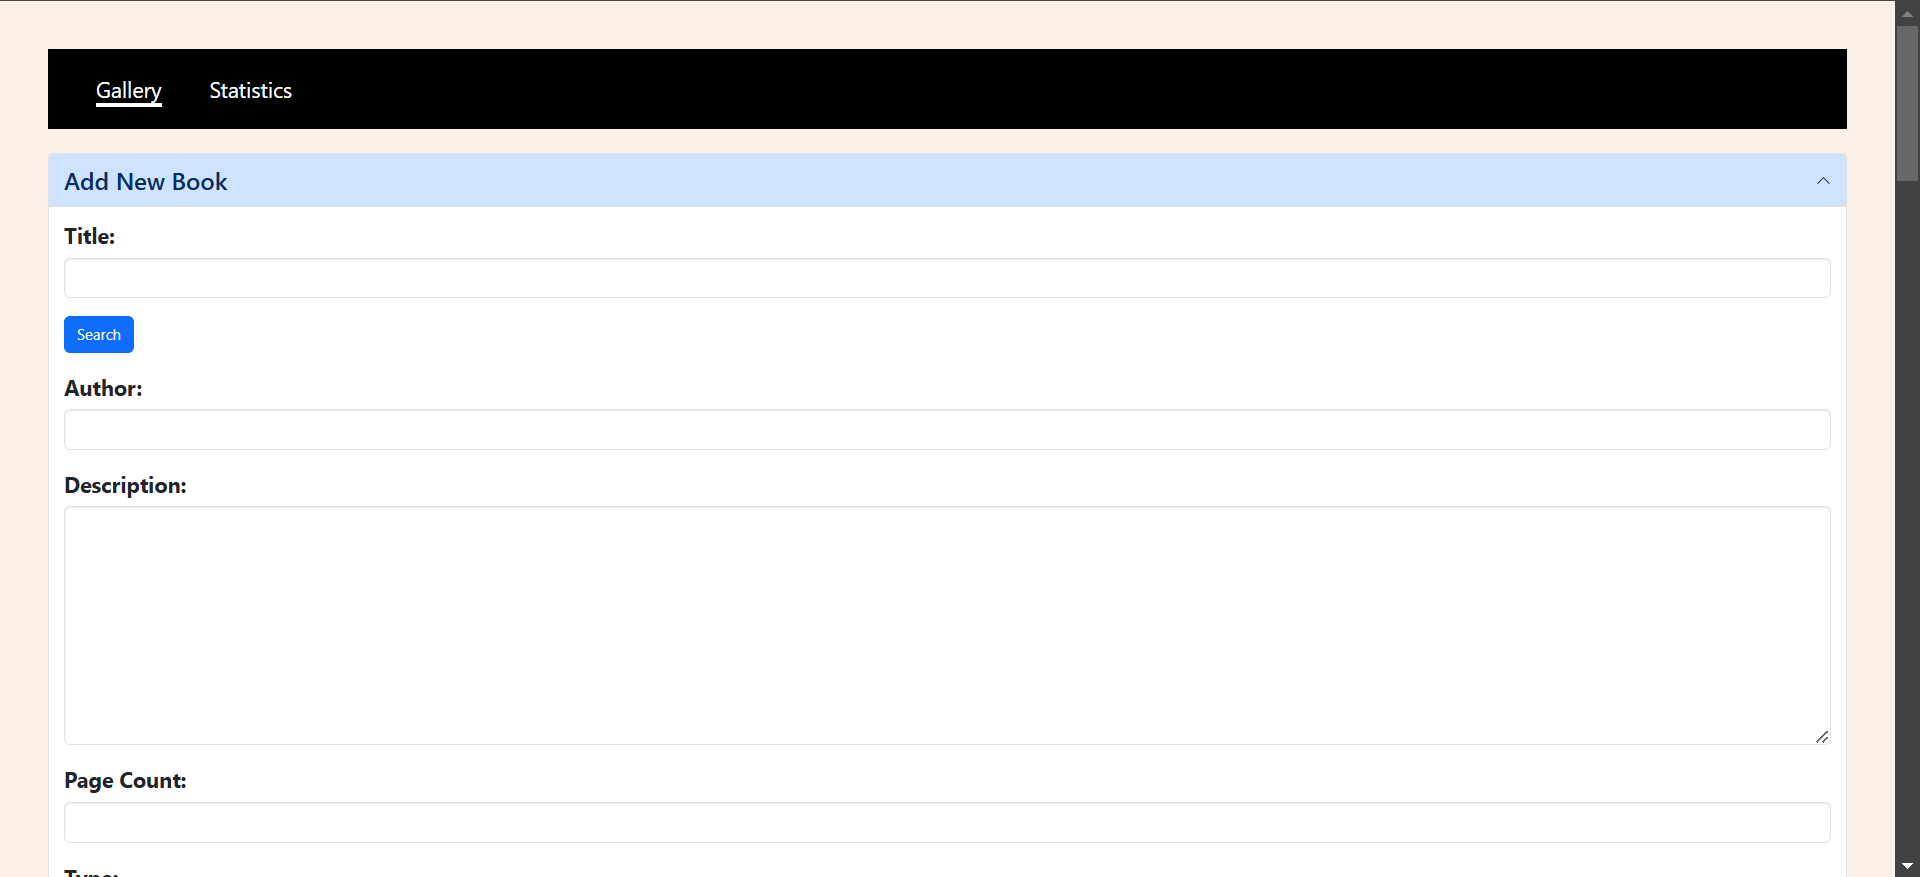
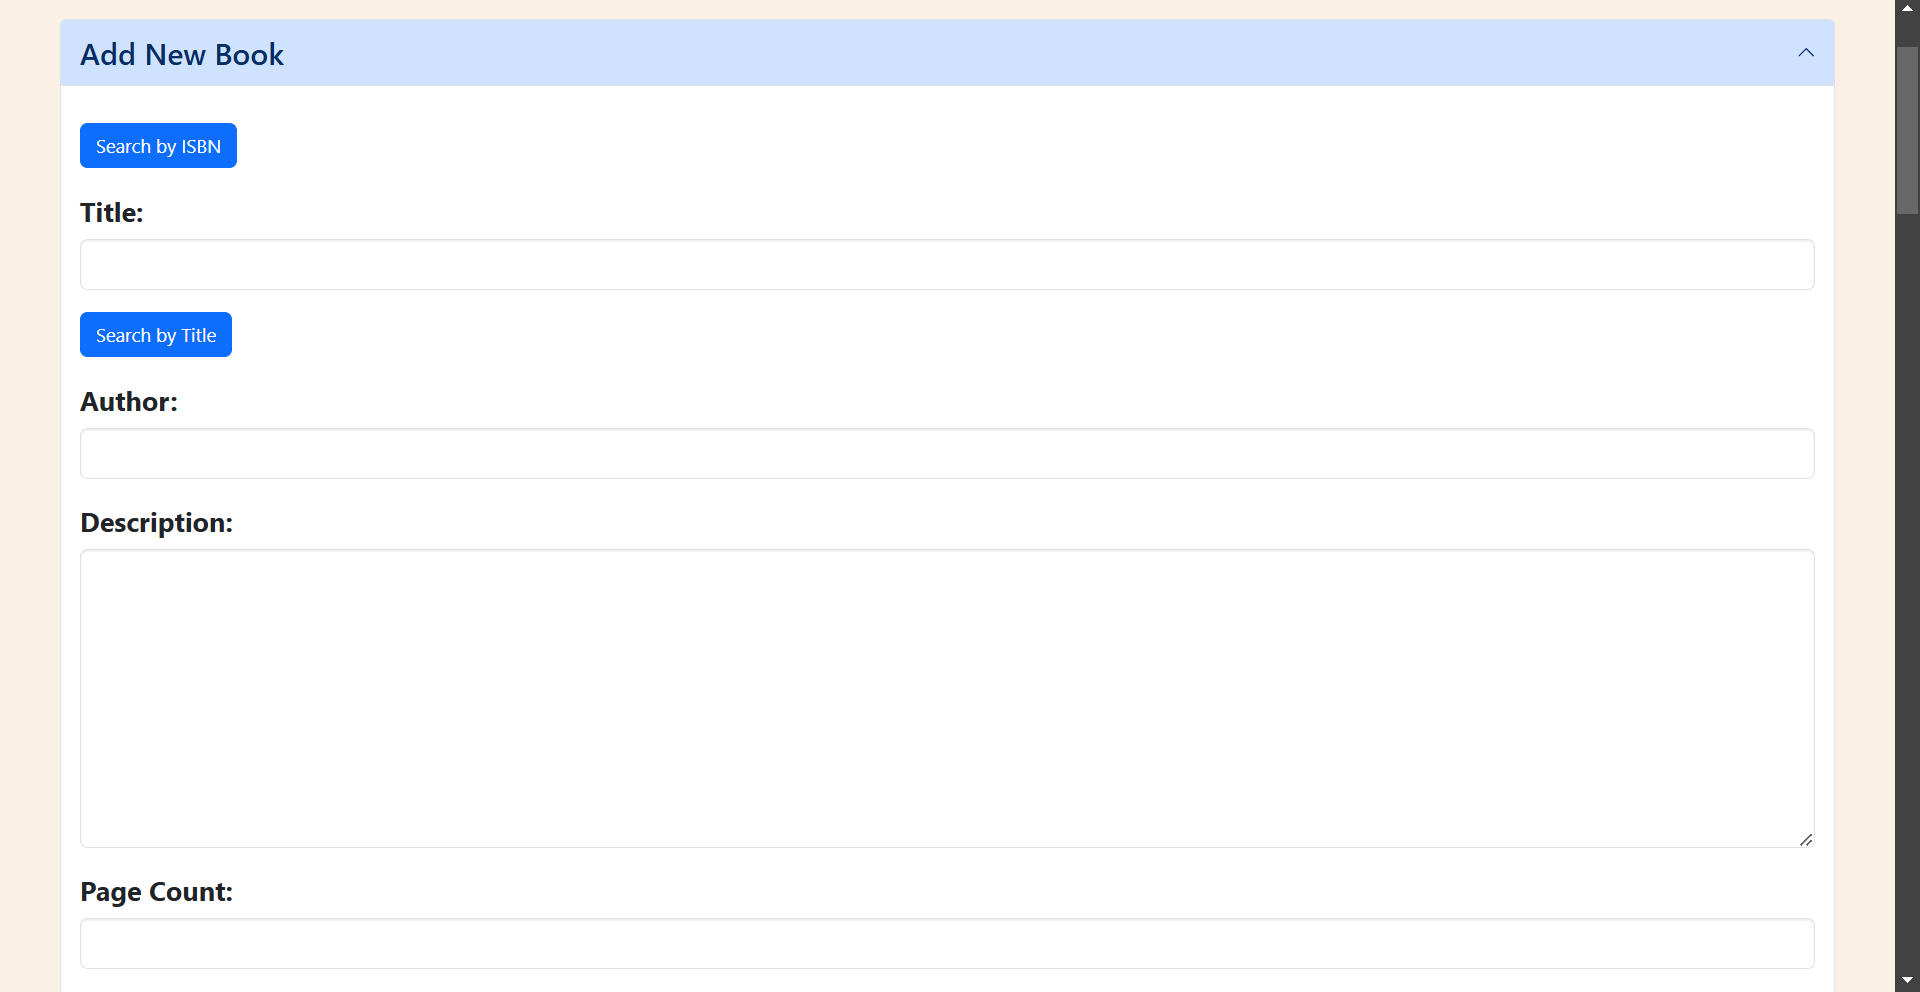
feat: search books by ISBN

Changed region(s): [[0.0, 0.0, 1.0, 1.0]]

diff --git a/client/src/components/NewBookForm.jsx b/client/src/components/NewBookForm.jsx
@@ -5,11 +5,30 @@ import {Accordion, Button, Form} from "react-bootstrap";
 import { apiKey } from "../api";
 import SearchedBooksModal from "./SearchedBooksModal";
 import PreviewCoverModal from "./PreviewCoverModal";
+import ISBNModal from "./ISBNModal";
 
 export default function NewBookForm(props) {
 	function showSearchedBooks() {
 		let searchTerm = document.getElementById("title").value;
 		let apiUrl = "https://www.googleapis.com/books/v1/volumes?q="+searchTerm.replace(" ", "+")+"&key="+apiKey;
+		fetch(apiUrl)
+		.then(response => {
+			if (!response.ok) {
+				throw new Error('Network response was not ok');
+			}
+			return response.json();
+		})
+		.then(data => {
+			setSearchedBooks(data.items);
+			setShowSearchedBooksModal(true);
+		})
+		.catch(error => {
+			console.error('Error:', error);
+		});
+	}
+
+	function showSearchedBookByISBN(isbn) {
+		let apiUrl = "https://www.googleapis.com/books/v1/volumes?q=isbn:"+isbn+"&key="+apiKey;
 		fetch(apiUrl)
 		.then(response => {
 			if (!response.ok) {
@@ -99,11 +118,16 @@ export default function NewBookForm(props) {
 		setShowPreviewCoverModal(false);
 	}
 
+	function closeISBNModal() {
+		setShowISBNModal(false);
+	}
+
 	const [searchedBooks, setSearchedBooks] = React.useState([]);
 	const [showSearchedBooksModal, setShowSearchedBooksModal] = React.useState(false);
 	const [bookTitle, setBookTitle] = React.useState("");
 	const [coverUrl, setCoverUrl] = React.useState("");
 	const [showPreviewCoverModal, setShowPreviewCoverModal] = React.useState(false);
+	const [showISBNModal, setShowISBNModal] = React.useState(false);
 
 	return (
 		<>
@@ -113,11 +137,14 @@ export default function NewBookForm(props) {
 				<Accordion.Body>
 					<Form id="addBookForm" method="post" action="/addBook" encType="multipart/form-data">
 						<Form.Control id="id" name="id" hidden={true} value={props.id} readOnly={true}/> 
+						<Form.Group className="mrgn-15">
+							<Button variant="primary" size="lg" onClick={() => setShowISBNModal(true)}>Search by ISBN</Button>
+						</Form.Group>
 						<Form.Group className="mrgn-btm-15">
 							<Form.Label htmlFor="title">Title:</Form.Label>
 							<Form.Control size="lg" type="text" id="title" name="title" required={true} />
 							<br/>
-							<Button variant="primary" size="lg" onClick={showSearchedBooks}>Search</Button>
+							<Button variant="primary" size="lg" onClick={showSearchedBooks}>Search by Title</Button>
 						</Form.Group>
 						<Form.Group className="mrgn-15">
 							<Form.Label htmlFor="author">Author:</Form.Label>
@@ -171,6 +198,11 @@ export default function NewBookForm(props) {
 			closeModal={closePreviewCoverModal}
 			coverUrl={coverUrl}
 			bookTitle={bookTitle}
+		/>
+		<ISBNModal
+			showModal={showISBNModal}
+			closeModal={closeISBNModal}
+			searchBook={showSearchedBookByISBN}
 		/>
 		</>
 	)

diff --git a/client/src/components/ISBNModal.jsx b/client/src/components/ISBNModal.jsx
@@ -1,0 +1,65 @@
+import React from "react";
+import {Modal, Button, Form} from "react-bootstrap";
+
+import { useMediaDevices } from "react-media-devices";
+import { useZxing } from "react-zxing";
+
+export default function ISBNModal(props) {
+	const constraints = {
+		video: true,
+		audio: false,
+	};
+	const { devices } = useMediaDevices({ constraints });
+	
+	const [deviceId, setDeviceId] = React.useState(devices ? devices[1].deviceId : "");
+	const [manualISBN, setManualISBN] = React.useState("");
+	
+	const { ref } = useZxing({
+		paused : !props.showModal,
+		deviceId : deviceId != "" ? deviceId : "",
+		onDecodeResult(result) {
+			const isbn = result.getText();
+			props.searchBook(isbn);
+			props.closeModal();
+		},
+		onError(error) {
+			console.log(error);
+		}
+	});
+
+	function searchByManualISBN() {
+		props.searchBook(manualISBN);
+		props.closeModal();
+	}
+
+	return (
+		<Modal show={props.showModal} onHide={props.closeModal} animation={false} centered dialogClassName="modal80">
+			<Modal.Header closeButton><h2>Search by ISBN:</h2></Modal.Header>
+			<Modal.Body>
+				<Form.Group id="videoInput">
+					<Form.Label htmlFor="inputDevice">Input Device:</Form.Label>
+					<Form.Select size="lg" className="form-input" id="inputDevice" defaultValue={0} onInput={(e)=>{setDeviceId(e.target.value)}}>
+						{!devices ? <option value={0}>No available sources</option> : 
+						devices.filter((value) => value.kind === "videoinput").map((device, index) => {
+							return (
+								<option key={index} value={device.deviceId}>{device.label}</option>
+							)
+						})}
+					</Form.Select>
+					<video ref={ref} />
+				</Form.Group>
+				<Form.Group>
+					<Form.Label htmlFor="manualISBN">Enter ISBN Manually:</Form.Label>
+					<Form.Control size="lg" type="text" id="manualISBN" name="manualISBN" required={true} onInput={(e)=>setManualISBN(e.target.value)} />
+					<br />
+					<Button variant="primary" size="lg" onClick={searchByManualISBN} disabled={manualISBN.length === 0}>Search by ISBN</Button>
+				</Form.Group>
+			</Modal.Body>
+			<Modal.Footer>
+				<Button variant="secondary" size="lg" onClick={props.closeModal}>
+					Close
+				</Button>
+			</Modal.Footer>
+		</Modal>
+	);
+}

diff --git a/client/src/components/PreviewCoverModal.jsx b/client/src/components/PreviewCoverModal.jsx
@@ -4,8 +4,8 @@ export default function PreviewCoverModal(props) {
 	return (
 		<Modal show={props.showModal} onHide={props.closeModal} animation={false} centered dialogClassName="modal80">
 			<Modal.Header closeButton><h2>Preview Cover:</h2></Modal.Header>
-			<Modal.Body>
-				<img src={props.coverUrl} alt={props.bookTitle} id="previewCoverImage"/>
+				<Modal.Body>
+					<img src={props.coverUrl} alt={props.bookTitle} id="previewCoverImage"/>
 				</Modal.Body>
 				<Modal.Footer>
 					<Button variant="secondary" size="lg" onClick={props.closeModal}>

diff --git a/client/src/components/SearchedBooksModal.jsx b/client/src/components/SearchedBooksModal.jsx
@@ -8,7 +8,7 @@ export default function SearchedBooksModal(props) {
 			<Modal.Body>
 				<Table>
 					<tbody>
-					{!props.items ? <p>"Loading..."</p> : props.items.map((book, index) => {
+					{!props.items || props.items.length === 0 ? <p className="text">No books found. Please add your new book manually.</p> : props.items.map((book, index) => {
 						return (
 							<BookTableRow
 								key={book.id}

diff --git a/client/src/App.css b/client/src/App.css
@@ -231,3 +231,17 @@ nav a:hover, nav a:focus {
 	margin-left: auto;
 	margin-right: auto;
 }
+
+.text {
+	font-size: medium;
+}
+
+#videoInput {
+	align-items: center;
+}
+
+video {
+	width: 50%;
+	margin-left: 25%;
+	margin-right: 25%;
+}

diff --git a/README.md b/README.md
@@ -17,14 +17,27 @@ A modal is displayed when a book is clicked on, providing more details about the
 ![Book Modal](demo_img/demo2.png)
 *Book Modal*
 
-New books can be added directly on the web interface. Data can either be manually added, or can be pulled from the Google Books API through a search on the title. Clicking the "Search" button performs an API call to search for books based on what is entered in the "Title" field. A modal is then shown, displaying a list of books retrieved from the API. Clicking on a book will populate the form fields with the data for the selected book. 
+New books can be added directly on the web interface. Data can either be manually added, or can be pulled from the Google Books API. 
 
 ![Form Panel 1](demo_img/demo3.png)
 ![Form Panel 2](demo_img/demo8.png)
 *Form Panel*
 
+Clicking the "Search by Title" button performs an API call to search for books based on what is entered in the "Title" field. A modal is then shown, displaying a list of books retrieved from the API. Clicking on a book will populate the form fields with the data for the selected book. 
+
 ![Modal of Retrieved Books](demo_img/demo6.png)
 *Modal of Retrieved Books*
+
+Clicking the "Search by ISBN" button opens a modal where there is the option to either scan the ISBN barcode from the book using a camera (can choose between any connected video capturing device) or manually enter the ISBN, allowing for easy retrieval of the correct edition of the book. Once the scanner finds and decodes the barcode, an API call is immediately made to the Google Books API to find the book by the ISBN. If the ISBN is manually entered, the call is made when the "Search by ISBN" button in the modal is clicked.
+
+![ISBN Input Modal - Live Video Input](demo_img/demo15.png)
+*ISBN Search Modal - Live Video Input*
+
+![ISBN Input Modal - Manual Input](demo_img/demo16.png)
+*ISBN Search Modal - Manual Input*
+
+![Book Retrieved by ISBN Search](demo_img/demo17.png)
+*Book Retrieved by ISBN Search*
 
 A search filter allows for filtering on author and title. The ability to filtering by type (fiction, nonfiction, etc.) and by genre is also present. Sorting is also available based on date read, author name, and title.
 
@@ -50,9 +63,7 @@ In addition, there is a page that displays numerous statistics, both in terms of
 ![Statistics 1](demo_img/demo11.png)
 ![Statistics 2](demo_img/demo12.png)
 ![Statistics 3](demo_img/demo13.png)
-*Statistics*
-
-Data is stored in a Microsoft Excel document. 
+*Statistics* 
 
 ## Built With
 ![MongoDB](https://img.shields.io/badge/MongoDB-4EA94B?style=for-the-badge&logo=mongodb&logoColor=white)
